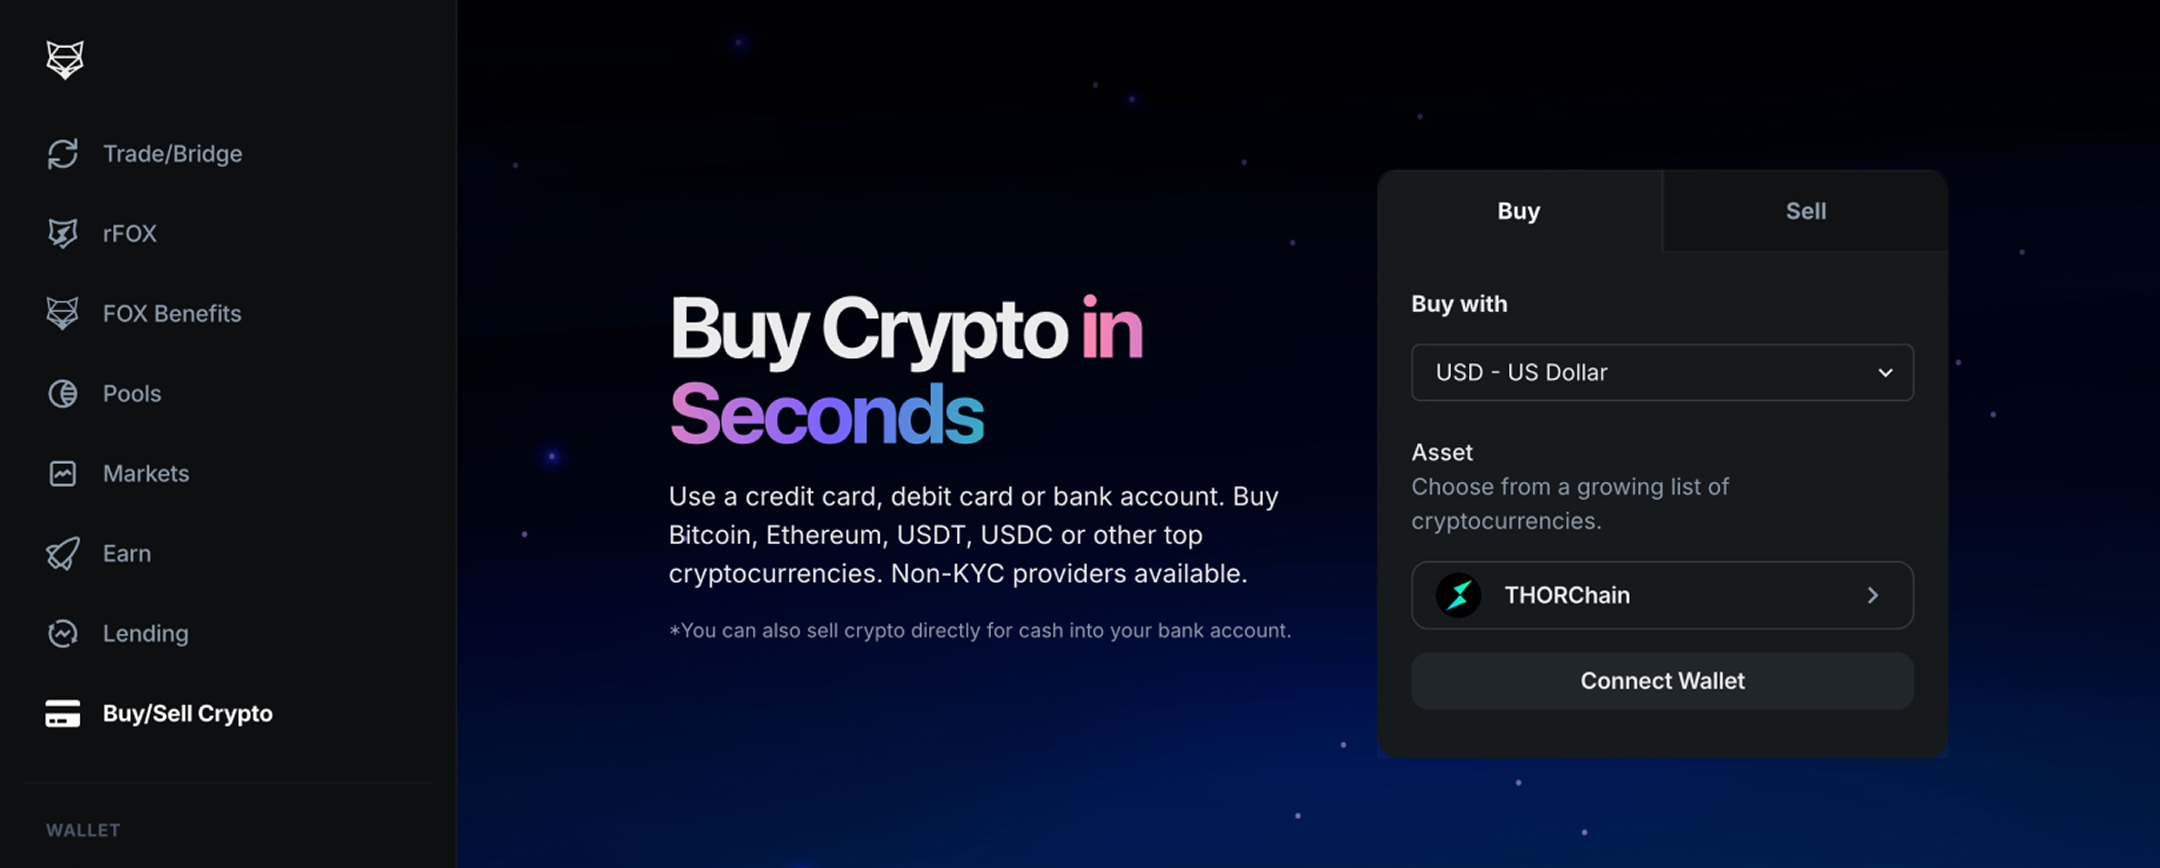
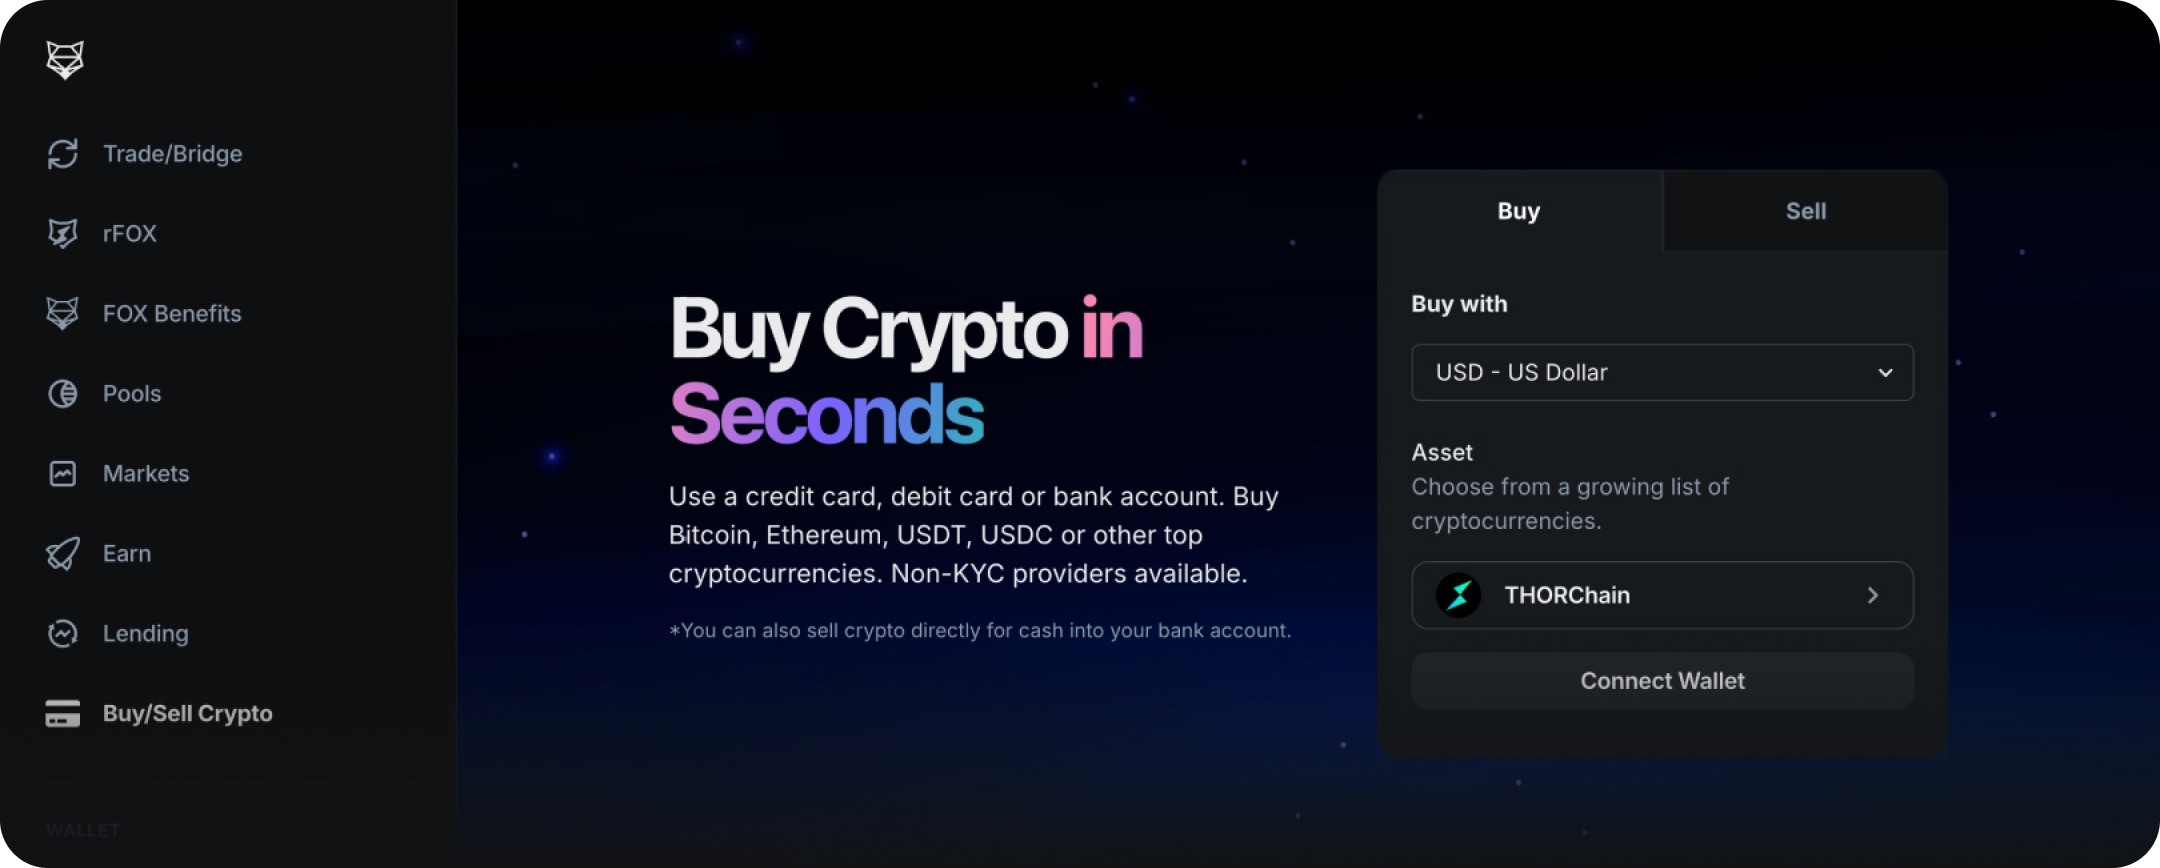
feat: landing tabs update

diff --git a/app/page.tsx b/app/page.tsx
@@ -88,8 +88,13 @@ export default function HomePage(): ReactNode {
 						/>
 						<div
 							className={
-								'absolute bottom-0 left-1/2 w-3/4 -translate-x-1/2 overflow-hidden rounded-t-2xl'
+								'absolute -bottom-6 left-1/2 w-3/4 -translate-x-1/2 overflow-hidden rounded-t-2xl'
 							}>
+							<div
+								className={
+									'to-transparents absolute bottom-6 h-10 w-full bg-gradient-to-t from-[#111214] lg:h-20'
+								}
+							/>
 							{tab === 'Buy' ? (
 								<Image
 									src={'/landing/tabBuy.png'}
